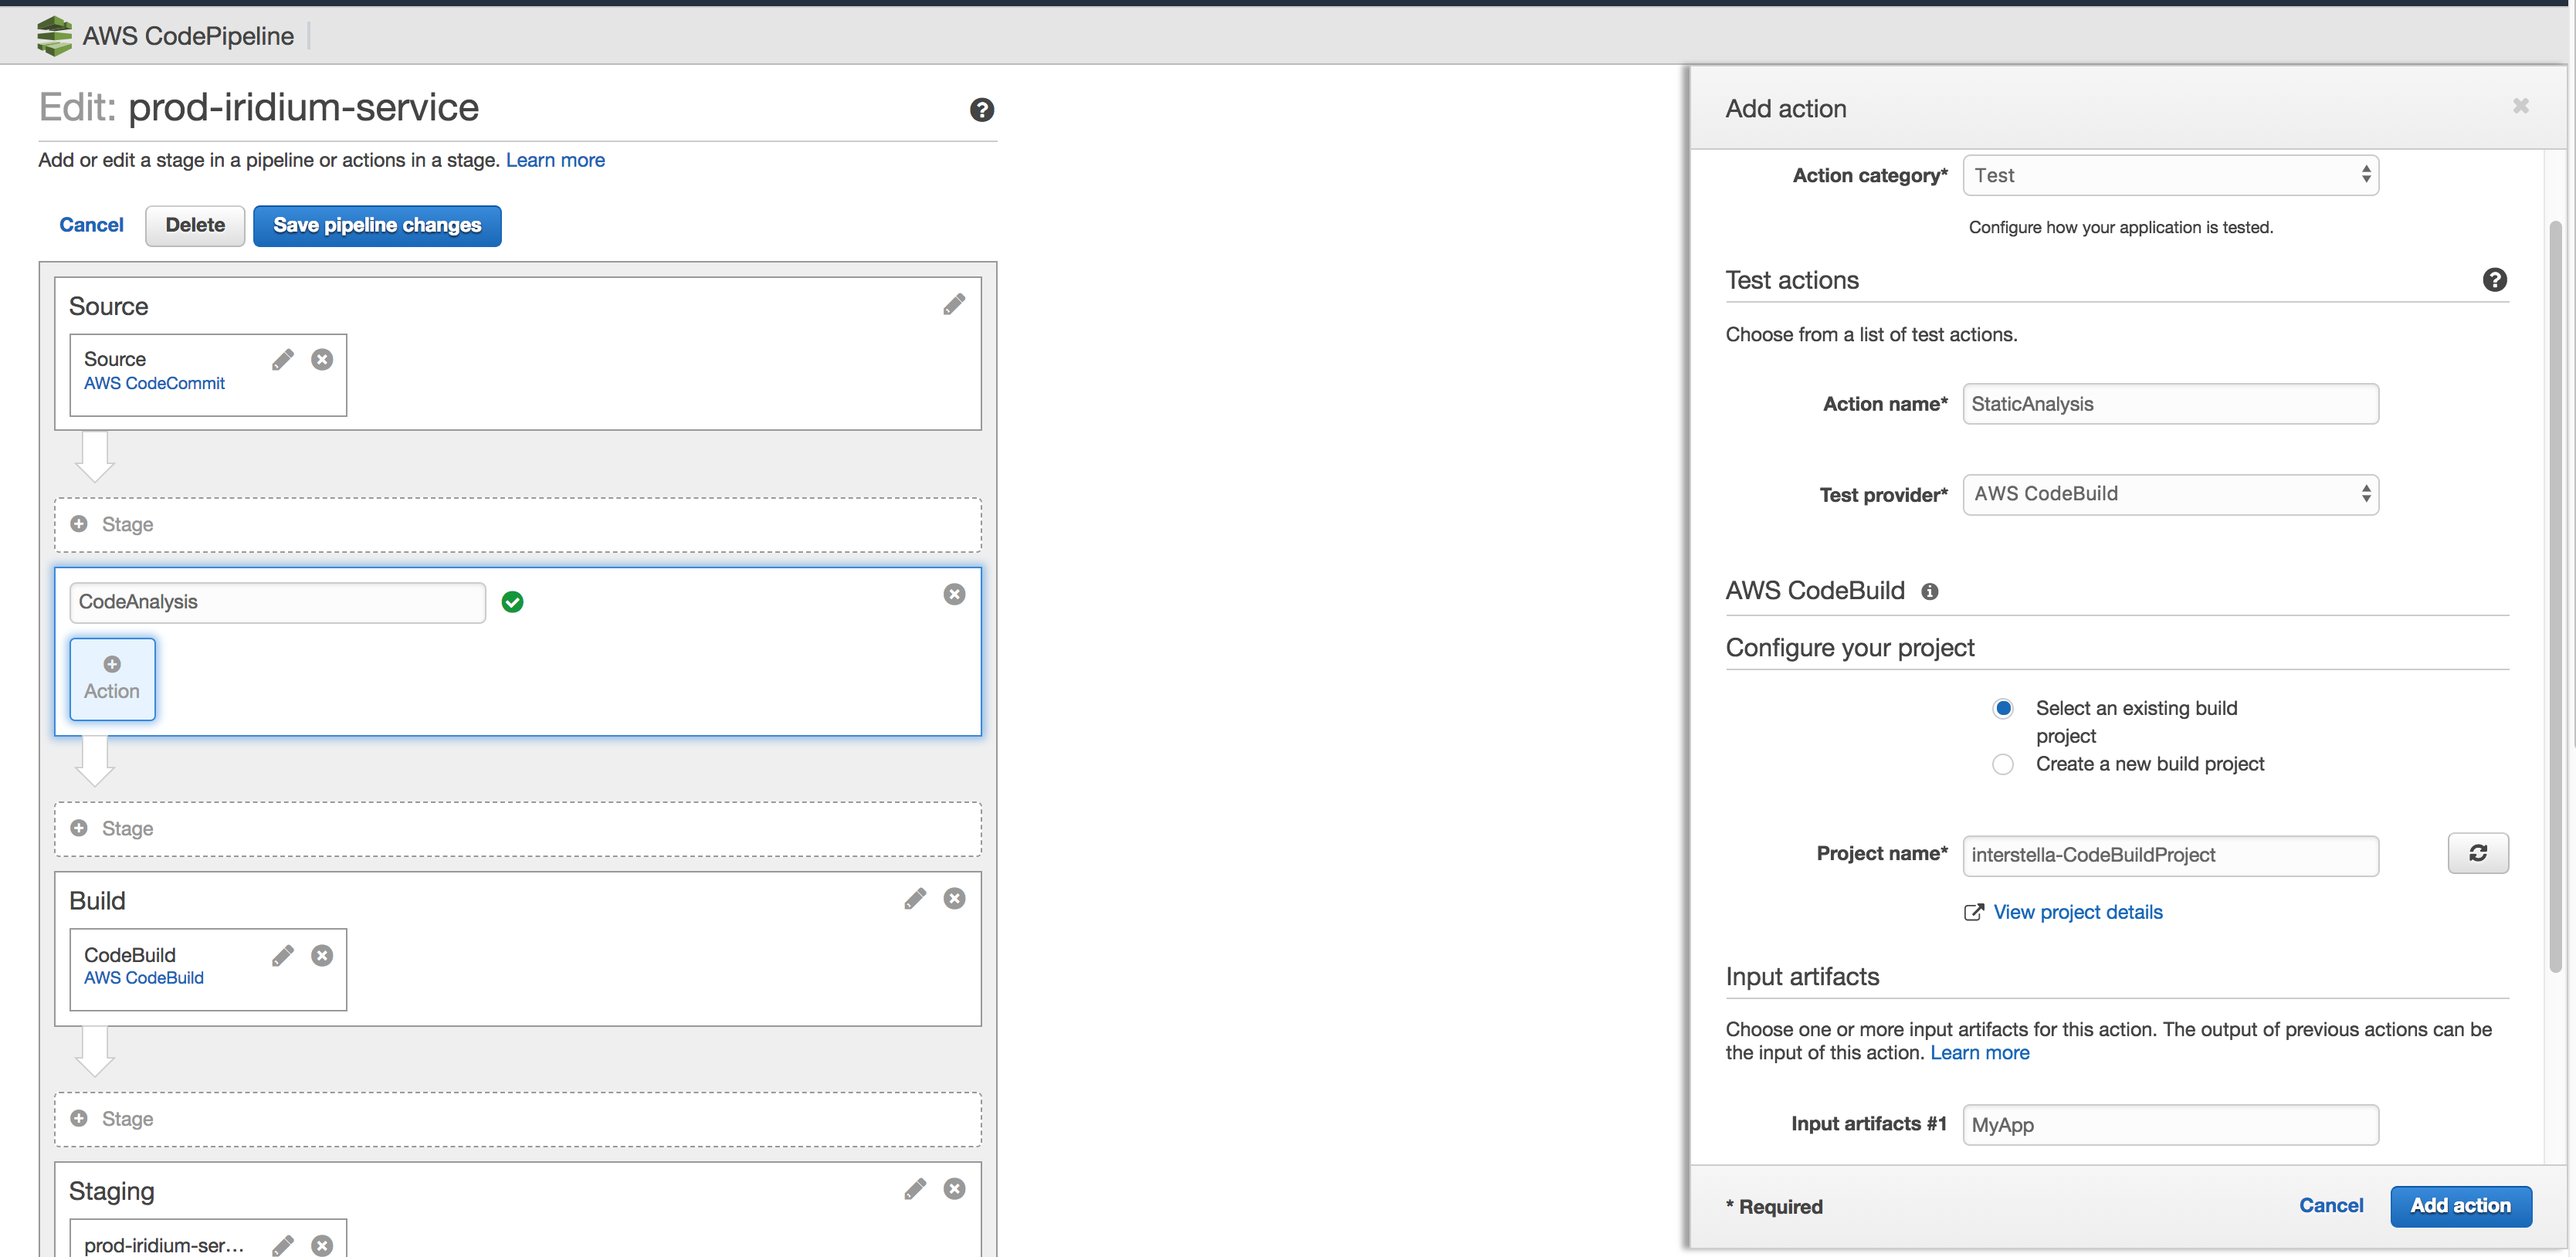
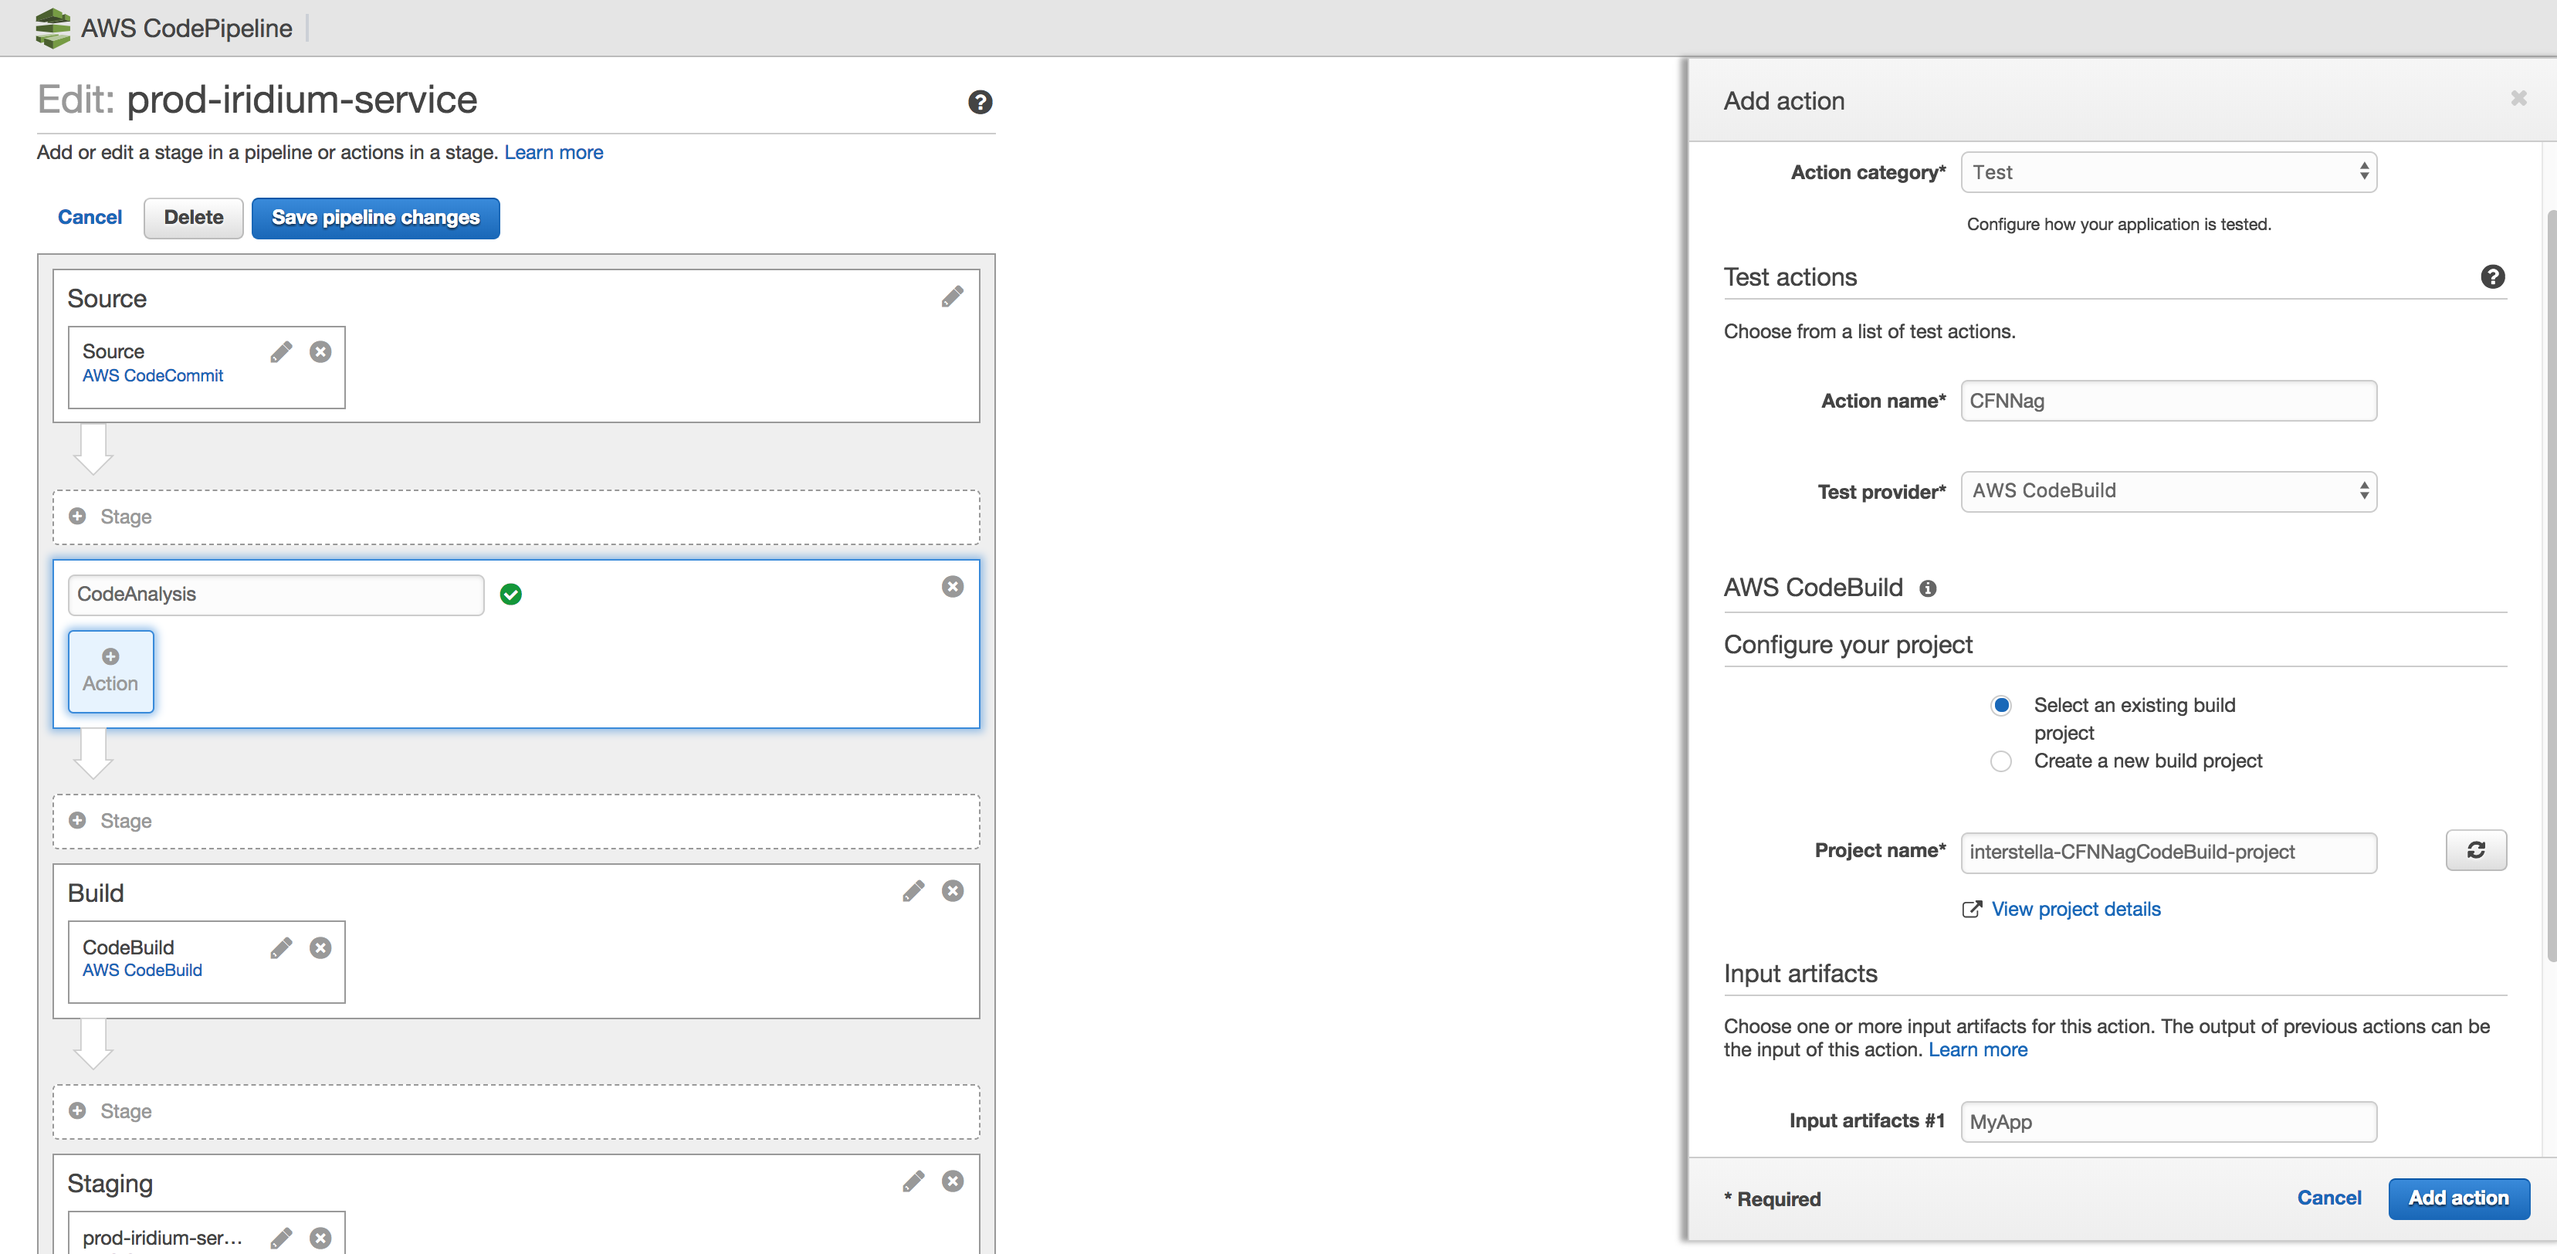
Buildspecs and access key

diff --git a/workshop3/index.html b/workshop3/index.html
@@ -951,9 +951,9 @@ Navigate to the AWS CodePipeline dashboard and choose your pipeline. Edit the pi
 Select and populate the following Values:
 
 - Action Category - **Test**
-- Action Name - **StaticAnalysis**
+- Action Name - **CFNNag**
 - Test provider - **AWS CodeBuild**
-- Project Name - **CFN Value** - *We've already created a CodeBuild project for you as part of the initial CloudFormation stack. It's a Ruby stack as cfn-nag uses ruby.*
+- Project Name - **EnvironmentName-CFNNagCodeBuild-project** - *We've already created a CodeBuild project for you as part of the initial CloudFormation stack. It's a Ruby stack as cfn-nag uses ruby.*
 - Input Artifact #1 - **MyApp**
 
 Click **Add Action**
@@ -962,7 +962,7 @@ Click **Add Action**
 
 2\. Create a new yml file for the test CodeBuild project to use.
 
-In the CloudFormation stack, we configured the CodeBuild project to look for a file named **test-buildspec.yml**. With this, CodeBuild will install cfn-nag and then scan the service.yml CloudFormation template. It's the same format as buildspec.yml you used earlier. Take a look at the [Stelligent cfn-nag github repo](https://github.com/stelligent/cfn_nag) for how to install it. We've placed a test-buildspec.yml.draft in the service folder for you to start. It looks like this:
+In the CloudFormation stack, we configured the CodeBuild project to look for a file named **cfn-nag-buildspec.yml**. With this, CodeBuild will install cfn-nag and then scan the service.yml CloudFormation template. It's the same format as buildspec.yml you used earlier. Take a look at the [Stelligent cfn-nag github repo](https://github.com/stelligent/cfn_nag) for how to install it. We've placed a cfn-nag-buildspec.yml.draft in the service folder for you to start. It looks like this:
 
 <pre>
 version: 0.2
@@ -995,54 +995,63 @@ phases:
         - cfn_nag_scan --input-path service.yml
   </pre>
   
-  A completed file is in the hints folder of workshop3. It's named <a href="https://github.com/aws-samples/amazon-ecs-interstella-workshop/blob/master/workshop3/hints/hint1-test-buildspec.yml">hint1-test-buildspec.yml</a>
+  A completed file is in the hints folder of workshop3. It's named <a href="https://github.com/aws-samples/amazon-ecs-interstella-workshop/blob/master/workshop3/hints/hint1-cfn-nag-buildspec.yml">hint1-cfn-nag-buildspec.yml</a>
 </details>
 
 3\. Check for access keys and secret keys being checked in.
 
-Interstella GTC has heard a lot of people checking in their keys to repos. How can we help in the fight to secure Interstella GTC? Let's add in a few more lines to look for any sort of AWS Access or Secret keys. Can you think of a way to do this? AWS Access keys (as of the writing of this workshop) are alphanumeric and 20 characters long. Secret keys, however, can contain some special characters and are 40 characters long. How would you look through your code for anything like this and throw a warning up if something exists?
+Interstella GTC has heard a lot of people checking in their keys to repos. How can we help in the fight to secure Interstella GTC? Can you think of a way to do this? We want it to run in parallel with cfn-nag so we can have multiple tests run at the same time. How would you look through your code for anything like this and throw a warning up if something exists?
+
+**Some hints:**
+
+- You can run multiple actions in parallel in CodePipeline.
+- AWS Access keys (as of the writing of this workshop) are alphanumeric and 20 characters long. 
+- Secret keys can contain some special characters and are 40 characters long. 
+- There is a second CodeBuild project already created for you using ubuntu-base:14.04 (Just vanilla linux) looking for accesskeys-buildspec.yml
 
 <details>
   <summary>
     Click here for an answer that we've come up with.
   </summary>
+  First, edit the CodeAnalysis stage of your pipeline so you can add another action right next to the CFNNag. Select and populate the following Values
+
+  - Action Category - **Test**<br/>
+  - Action Name - **CheckAccessKeys**<br/>
+  - Test provider - **AWS CodeBuild**<br/>
+  - Project Name - **EnvironmentName-GeneralCodeBuild-project** - *We've already created a CodeBuild project for you as part of the initial CloudFormation stack. It's a Generic Ubuntu 14.04 Linux stack.*<br/>
+  - Input Artifact #1 - **MyApp**
+  
+  ![CodePipeline Create Test 2](images/3-cp-create-test-2.png)
+  
   We've pre-written a script for you to look for an AWS Access Key or Secret Key within your code. Take a look in github for the [checkaccesskeys.sh script in GitHub](https://github.com/aws-samples/amazon-ecs-interstella-workshop/blob/master/workshop3/tests/checkaccesskeys.sh). If it finds something, it will output some warnings to the CodeBuild log output. Normally, we would fire off some sort of security notification, but this will do for now. 
 
-  Within the build section, add in a line to run a script in the test folder:
-  
-  <pre>
-    ./tests/checkaccesskeys.sh 
-  </pre>
-
-  Your test-build.yml should now look like this:
+  Within the build section, add in a line to run a script in the test folder. Your accesskeys-buildspec.yml should now look like this:
 
   <pre>
   version: 0.2
 
   phases:
-    pre_build:
-      commands:
-        - gem install cfn-nag
     build:
       commands:
-        - echo 'In Build'
-        - cfn_nag_scan --input-path service.yml
         - ./tests/checkaccesskeys.sh
   </pre>
 
-  A final version of this test-buildspec.yml is also located in the hints folder. It's named final-test-buildspec.yml.
+  A final version of this buildspec is also located in the hints folder. It's named accesskeys-buildspec.yml.
 </details>
 
-Let's check everything in and run the test. 
+4\. Let's check everything in and run the tests. 
 
 <pre>
-$ git add test-cfn-nag.yml
-$ git commit -m "Adding in buildspec for cfn-nag"
+$ git add accesskeys-buildspec.yml cfn-nag-buildspec.yml
+$ git commit -m "Adding in buildspec for cfn-nag AND check for access key scans"
 $ git push origin master
 </pre>
 
 By pushing to CodeCommit, the pipeline will automatically trigger. 
 
+5\. Fix all the errors.
+
+WHAT? THERE WERE ERRORS AGAIN?!?!? Ok go through and fix them all. 
 
 
 

diff --git a/workshop3/readme.md b/workshop3/readme.md
@@ -942,7 +942,7 @@ Select and populate the following Values:
 - Action Category - **Test**
 - Action Name - **CFNNag**
 - Test provider - **AWS CodeBuild**
-- Project Name - **CFN Value** - *We've already created a CodeBuild project for you as part of the initial CloudFormation stack. It's a Ruby stack as cfn-nag uses ruby.*
+- Project Name - **EnvironmentName-CFNNagCodeBuild-project** - *We've already created a CodeBuild project for you as part of the initial CloudFormation stack. It's a Ruby stack as cfn-nag uses ruby.*
 - Input Artifact #1 - **MyApp**
 
 Click **Add Action**
@@ -1002,14 +1002,15 @@ Interstella GTC has heard a lot of people checking in their keys to repos. How c
   <summary>
     Click here for an answer that we've come up with.
   </summary>
-  
-  First, edit the CodeAnalysis stage of your pipeline so you can add another action right next to the CFNNag. Select and populate the following Values:
+  First, edit the CodeAnalysis stage of your pipeline so you can add another action right next to the CFNNag. Select and populate the following Values
 
-  - Action Category - **Test**
-  - Action Name - **CheckAccessKeys**
-  - Test provider - **AWS CodeBuild**
-  - Project Name - **CFN Value** - *We've already created a CodeBuild project for you as part of the initial CloudFormation stack. It's a Ruby stack as cfn-nag uses ruby.*
+  - Action Category - **Test**<br/>
+  - Action Name - **CheckAccessKeys**<br/>
+  - Test provider - **AWS CodeBuild**<br/>
+  - Project Name - **EnvironmentName-GeneralCodeBuild-project** - *We've already created a CodeBuild project for you as part of the initial CloudFormation stack. It's a Generic Ubuntu 14.04 Linux stack.*<br/>
   - Input Artifact #1 - **MyApp**
+  
+  ![CodePipeline Create Test 2](images/3-cp-create-test-2.png)
   
   We've pre-written a script for you to look for an AWS Access Key or Secret Key within your code. Take a look in github for the [checkaccesskeys.sh script in GitHub](https://github.com/aws-samples/amazon-ecs-interstella-workshop/blob/master/workshop3/tests/checkaccesskeys.sh). If it finds something, it will output some warnings to the CodeBuild log output. Normally, we would fire off some sort of security notification, but this will do for now. 
 
@@ -1027,16 +1028,19 @@ Interstella GTC has heard a lot of people checking in their keys to repos. How c
   A final version of this buildspec is also located in the hints folder. It's named accesskeys-buildspec.yml.
 </details>
 
-Let's check everything in and run the test. 
+4\. Let's check everything in and run the tests. 
 
 <pre>
-$ git add accesskeys-buildspec.yml 
-$ git commit -m "Adding in buildspec for cfn-nag"
+$ git add accesskeys-buildspec.yml cfn-nag-buildspec.yml
+$ git commit -m "Adding in buildspec for cfn-nag AND check for access key scans"
 $ git push origin master
 </pre>
 
 By pushing to CodeCommit, the pipeline will automatically trigger. 
 
+5\. Fix all the errors.
+
+WHAT? THERE WERE ERRORS AGAIN?!?!? Ok go through and fix them all. 
 
 
 
